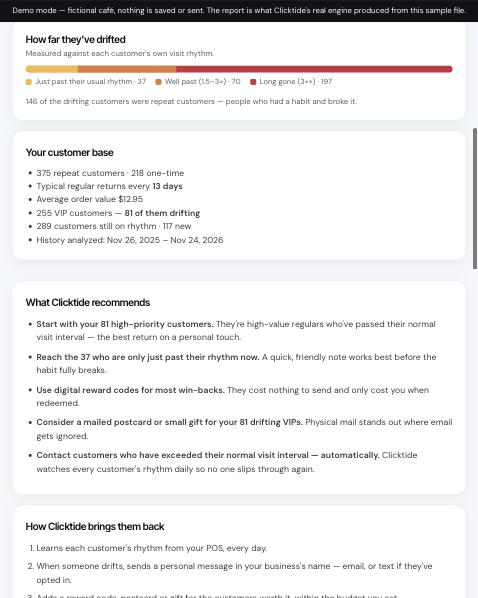
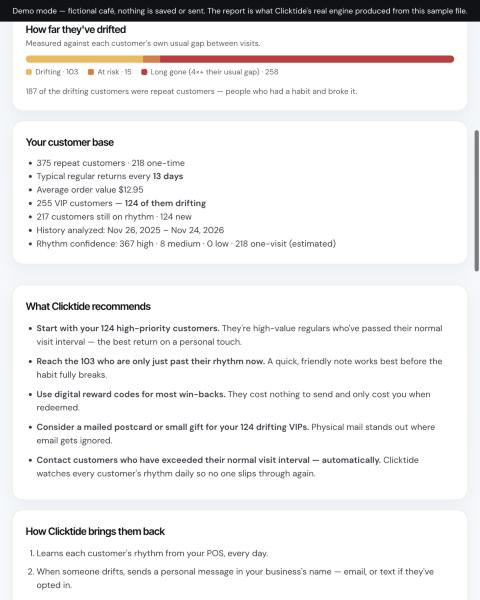
Walkthrough: new rhythm-engine demo numbers and screenshots

diff --git a/demo/free-pos-audit-walkthrough.html b/demo/free-pos-audit-walkthrough.html
@@ -101,11 +101,11 @@ footer{border-top:1px solid var(--line);margin-top:24px;padding-block:24px 40px;
   <section class="stage" aria-labelledby="s1"><span class="k">Stage 1 · The ad page</span><h2 id="s1">They land from the ad</h2></section>
 
   <div class="step">
-    <div class="txt"><span class="num">1</span><h3>The offer, with an example report</h3><p>The headline asks how much revenue they lose to customers who never come back. Beside it, an example report built from a sample café shows exactly what they'll get. Each ad gets its own matching headline.</p></div>
-    <figure class="shot"><img src="walkthrough2/01-hero-and-example-report.jpg" alt="Landing page headline with a Get my free report button, POS badges, and an example report showing 593 customers, 304 drifting, 81 high-priority" loading="lazy" width="800" height="1000"></figure>
+    <div class="txt"><span class="num">1</span><h3>The offer, with an example report</h3><p>The headline asks whether they'd even notice their regulars had stopped coming. Beside it, an example report built from a sample café shows exactly what they'll get. Each ad gets its own matching headline.</p></div>
+    <figure class="shot"><img src="walkthrough2/01-hero-and-example-report.jpg" alt="Landing page headline with a Get my free report button, POS badges, and an example report showing 593 customers, 376 drifting, 124 high-priority" loading="lazy" width="800" height="1000"></figure>
   </div>
   <div class="step">
-    <div class="txt"><span class="num">2</span><h3>The problem, as a picture</h3><p>A timeline of one regular, Maya: she came in every two weeks, then stopped. Three weeks past her usual rhythm, Clicktide flags her and reaches out. Without it, twelve weeks pass and nobody notices.</p></div>
+    <div class="txt"><span class="num">2</span><h3>The problem, as a picture</h3><p>A timeline of one regular, Maya: she came in every two weeks, then stopped. Once she's past her own usual gap, Clicktide flags her and reaches out. Without it, twelve weeks pass and nobody notices.</p></div>
     <figure class="shot"><img src="walkthrough2/02-problem-and-solution.jpg" alt="Timeline of a regular customer visiting every two weeks, then drifting, flagged three weeks past her rhythm" loading="lazy" width="800" height="1000"></figure>
   </div>
   <div class="step">
@@ -133,12 +133,12 @@ footer{border-top:1px solid var(--line);margin-top:24px;padding-block:24px 40px;
     <figure class="shot"><img src="walkthrough2/07-analyzing-progress.jpg" alt="Analyzing your business screen with 593 customers found" loading="lazy" width="478" height="598"></figure>
   </div>
   <div class="step">
-    <div class="txt"><span class="num">8</span><h3>Their report: three numbers, never blended</h3><p>From the sample café's 12,558 orders:</p><div class="key"><b>What makes this honest</b><p>Past spending is a fact, the estimate is a labelled assumption, and recovered revenue only counts real return visits.</p><div class="nums"><div><strong>$64,198</strong>past spending of drifting customers</div><div><strong>$2,633</strong>estimate: 1 in 5 come back for 3 months</div><div class="g"><strong>$0 so far</strong>actually recovered</div></div></div></div>
-    <figure class="shot"><img src="walkthrough2/08-report-and-three-numbers.jpg" alt="Report with 593 customers, 304 drifting, $64,198 historical spend, 81 high-priority, and three separate numbers" loading="lazy" width="478" height="598"></figure>
+    <div class="txt"><span class="num">8</span><h3>Their report: three numbers, never blended</h3><p>From the sample café's 12,558 orders:</p><div class="key"><b>What makes this honest</b><p>Past spending is a fact, the estimate is a labelled assumption, and recovered revenue only counts real return visits.</p><div class="nums"><div><strong>$83,580</strong>past spending of drifting customers</div><div><strong>$3,686</strong>estimate: 1 in 5 come back for 3 months</div><div class="g"><strong>$0 so far</strong>actually recovered</div></div></div></div>
+    <figure class="shot"><img src="walkthrough2/08-report-and-three-numbers.jpg" alt="Report with 593 customers, 376 drifting, $83,580 historical spend, 124 high-priority, and three separate numbers" loading="lazy" width="480" height="600"></figure>
   </div>
   <div class="step">
-    <div class="txt"><span class="num">9</span><h3>How far they've drifted, and what to do</h3><p>Who's just past their usual rhythm, who's long gone, a snapshot of their customer base, and recommendations built from their own numbers.</p></div>
-    <figure class="shot"><img src="walkthrough2/09-drift-base-recommendations.jpg" alt="Drift bar, customer base summary and five recommendations" loading="lazy" width="478" height="598"></figure>
+    <div class="txt"><span class="num">9</span><h3>How far they've drifted, and what to do</h3><p>Who's drifting, who's at risk, who's long gone (4× or more past their usual gap), a snapshot of their customer base, and recommendations built from their own numbers.</p></div>
+    <figure class="shot"><img src="walkthrough2/09-drift-base-recommendations.jpg" alt="Drift bar with 103 drifting, 15 at risk and 258 long gone, customer base summary with rhythm confidence, and five recommendations" loading="lazy" width="480" height="600"></figure>
   </div>
   <section class="stage" aria-labelledby="s4"><span class="k">Stage 4 · Free trial</span><h2 id="s4">They start a 30-day free trial, or walk away with their data deleted</h2></section>
 
